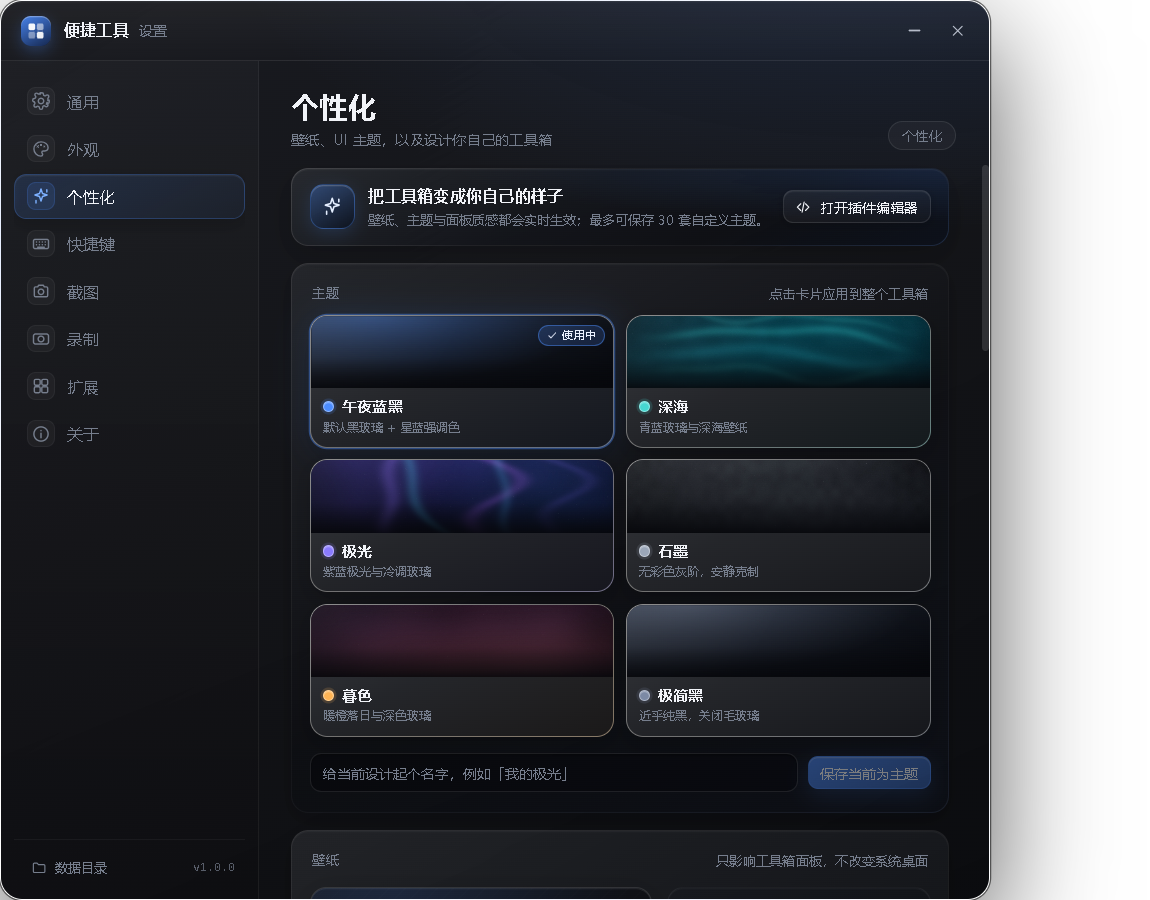
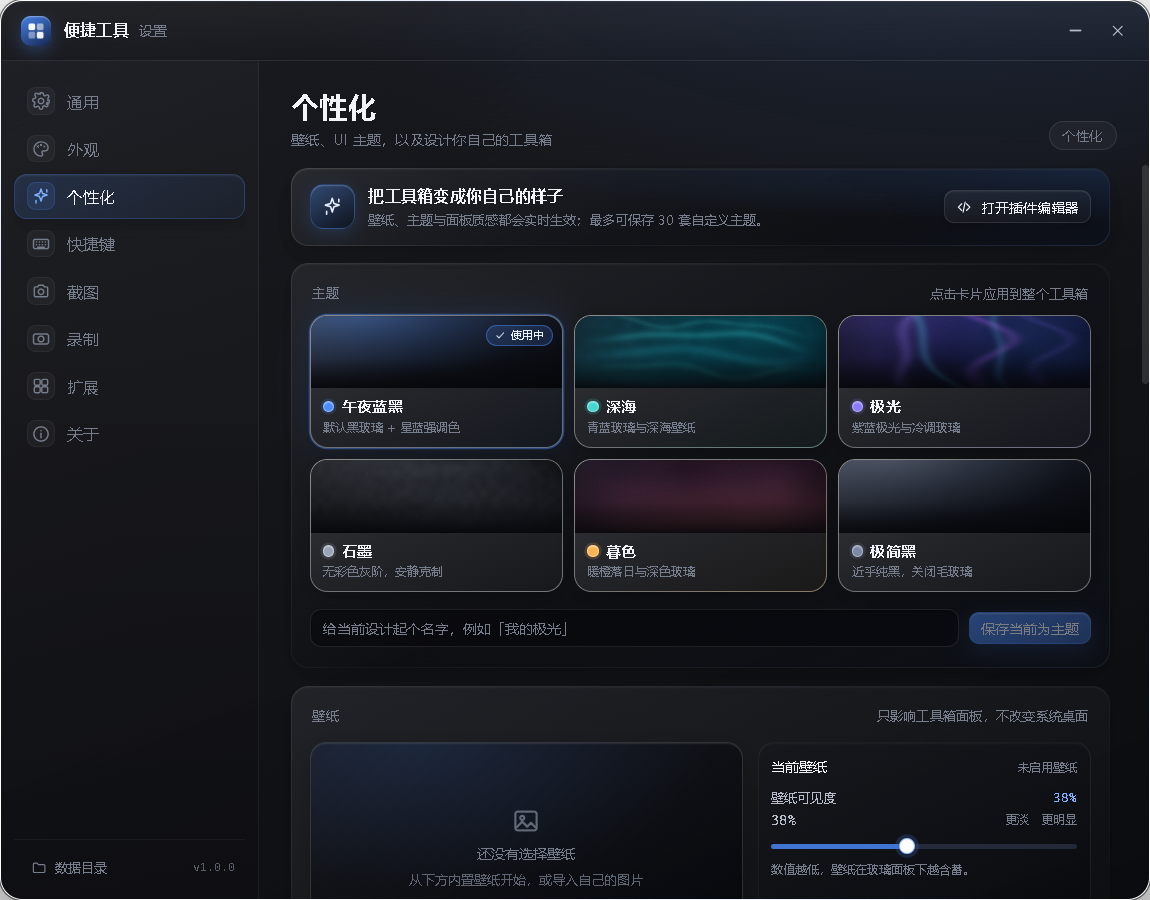
修复设置窗口未铺满客户区（#root flex 导致右侧/底部透明空白），补充铺满校验

Changed region(s): [[0.2435, 0.0, 1.0, 1.0], [0.6696, 0.84, 0.8217, 0.9022], [0.7913, 0.1244, 0.8217, 0.1556]]

diff --git a/src/main/testing/scenario.ts b/src/main/testing/scenario.ts
@@ -1,4 +1,4 @@
-/**
+/**
  * 冒烟测试脚本（npm run smoke，TK_TEST=1 时由主进程加载）。
  * 覆盖：面板/悬浮球/桌面外观、插件列表、设置读写、截图、录屏、插件 iframe、设置页。
  */
@@ -227,6 +227,13 @@ export async function runSmoke(env: SmokeEnv): Promise<void> {
     if (!win || win.isDestroyed()) throw new Error('设置窗口未创建');
     const shot = await win.webContents.capturePage();
     fs.writeFileSync(path.join(outDir, '10-settings-window.png'), shot.toPNG());
+    const layout = (await win.webContents.executeJavaScript(`(() => {
+      const rect = document.querySelector('.settings-window')?.getBoundingClientRect();
+      return { innerW: innerWidth, innerH: innerHeight, cardW: rect?.width ?? 0, cardH: rect?.height ?? 0 };
+    })()`)) as { innerW: number; innerH: number; cardW: number; cardH: number };
+    if (Math.abs(layout.cardW - layout.innerW) > 1 || Math.abs(layout.cardH - layout.innerH) > 1) {
+      throw new Error(`设置窗口未铺满客户区：${layout.cardW}x${layout.cardH} / ${layout.innerW}x${layout.innerH}`);
+    }
     const state = (await win.webContents.executeJavaScript(`(() => ({
       nav: document.querySelectorAll('.settings-nav-item').length,
       title: document.querySelector('.settings-page-title')?.textContent ?? '',
@@ -266,7 +273,13 @@ export async function runSmoke(env: SmokeEnv): Promise<void> {
     await wait(500);
     const resizedShot = await win.webContents.capturePage();
     fs.writeFileSync(path.join(outDir, '24-settings-resized.png'), resizedShot.toPNG());
-    const resizedSize = win.getSize();
+    const resizedLayout = (await win.webContents.executeJavaScript(`(() => {
+      const rect = document.querySelector('.settings-window')?.getBoundingClientRect();
+      return { innerW: innerWidth, cardW: rect?.width ?? 0 };
+    })()`)) as { innerW: number; cardW: number };
+    if (Math.abs(resizedLayout.cardW - resizedLayout.innerW) > 1) {
+      throw new Error(`缩放后设置窗口未铺满：${resizedLayout.cardW} / ${resizedLayout.innerW}`);
+    }
     win.setSize(920, 720);
     await wait(300);
     // 扩展 tab → 点击第一个「编辑」进入编辑器，验证独立设置窗口中的编辑器布局
@@ -429,7 +442,7 @@ export async function runSmoke(env: SmokeEnv): Promise<void> {
     await ball.webContents.executeJavaScript(
       "(() => { const el = document.querySelector('.ball-root'); el.dispatchEvent(new MouseEvent('mouseout', { bubbles: true, relatedTarget: document.body })); return true; })()"
     );
-    await wait(1500);
+    await wait(2400);
     const reDocked = ball.getBounds();
     if (Math.abs(reDocked.x - docked.x) > 6) throw new Error(`离开后未重新隐藏：${reDocked.x} vs ${docked.x}`);
     env.windows.setBallDock(null, false);
@@ -639,6 +652,7 @@ export async function runSmoke(env: SmokeEnv): Promise<void> {
   }
   if (failed.length) env.logger.warn(`[test] 失败 ${failed.length} 项`);
 }
+
 
 
 

diff --git a/src/renderer/src/theme/settings-window.css b/src/renderer/src/theme/settings-window.css
@@ -5,15 +5,29 @@
 html,
 body,
 #root {
+  width: 100%;
   height: 100%;
   margin: 0;
   padding: 0;
   background: transparent;
+}
+
+/* shell.css 给 #root 设了 display:flex；这里让设置窗口始终铺满整个客户区 */
+#root {
+  display: flex;
+  align-items: stretch;
+}
+
+html,
+body {
   overflow: hidden;
 }
 
 .settings-window {
   position: relative;
+  flex: 1 1 auto;
+  width: 100%;
+  min-width: 0;
   height: 100%;
   display: flex;
   flex-direction: column;
